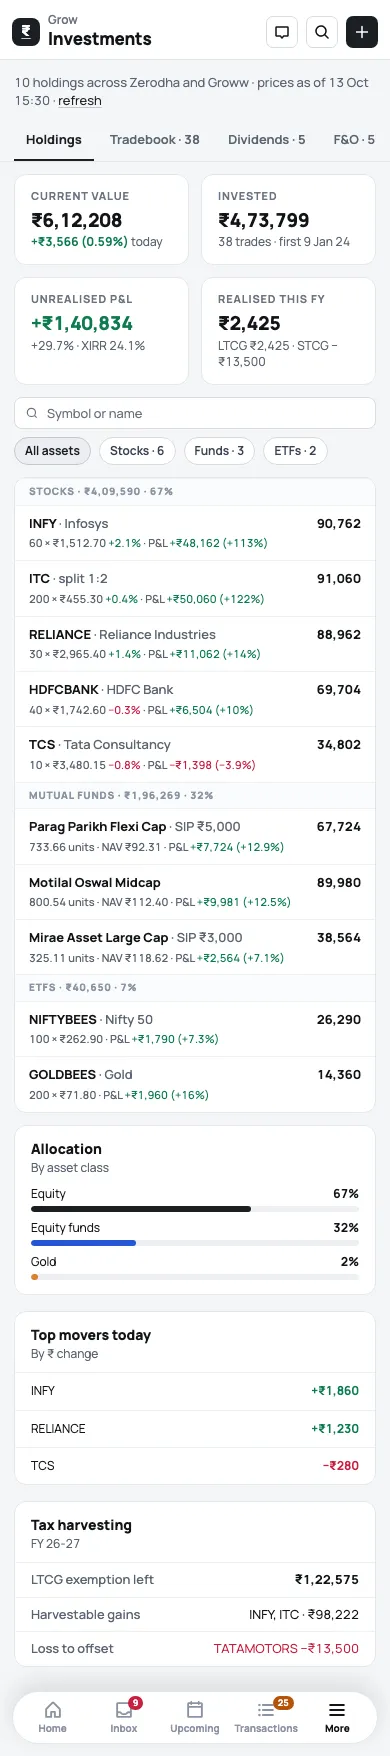
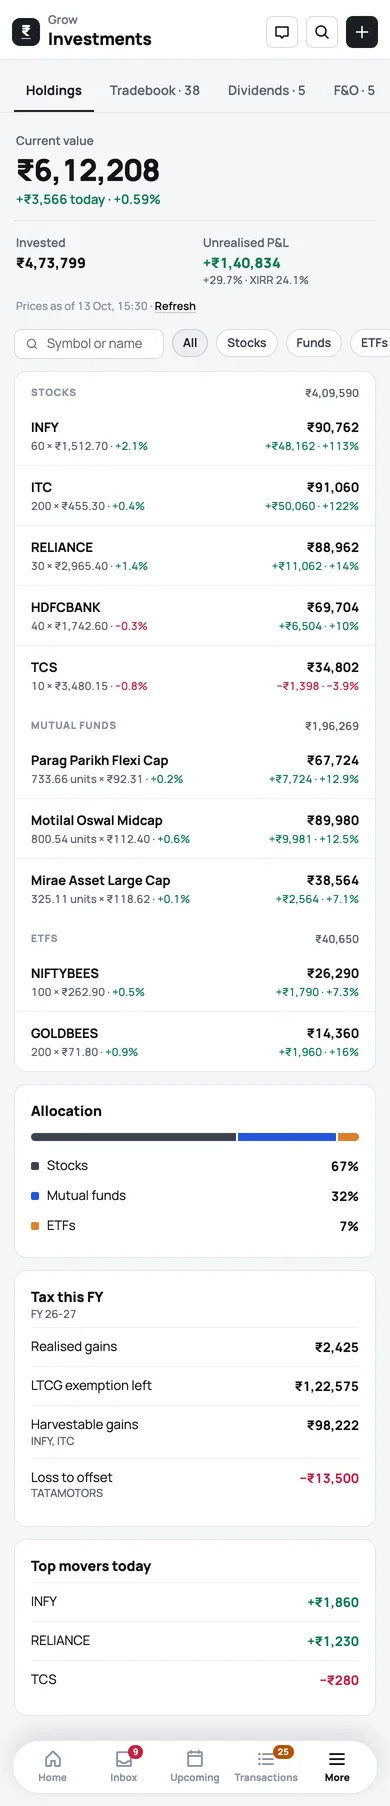
docs(ds): calmer phone Holdings board (owner answers 10-23)
One hero figure, two side stats, search left of the chips, two-line rows
(qty × price · day %, P&L · %), totals-only group heads, Tax this FY card.

diff --git a/design-system/screens/P-investments.dc.html b/design-system/screens/P-investments.dc.html
@@ -222,6 +222,33 @@ svg{flex:none}
 .dim{opacity:.55;pointer-events:none}
 
 
+.hx-hero{padding:8px 2px 0}
+.hx-lab{font-size:12px;line-height:16px;font-weight:600;color:#5B6472}
+.hx-big{font-family:'Bricolage Grotesque',Manrope,sans-serif;font-size:30px;line-height:34px;font-weight:800;letter-spacing:-.02em;margin-top:4px}
+.hx-two{display:grid;grid-template-columns:1fr 1fr;gap:16px;padding:14px 2px 0;border-top:1px solid #E4E7EB}
+.hx-fig{font-size:14px;line-height:20px;font-weight:800;margin-top:2px}
+.hx-cap{font-size:11px;line-height:14px;font-weight:500}
+.hx-asof{color:#8A94A3;padding:0 2px}
+.hx-asof a{color:#121417;font-weight:600}
+.hx-filters{display:flex;gap:8px;overflow-x:auto;scrollbar-width:none;margin:4px -14px 0;padding:0 14px}
+.hx-filters .search{flex:1 0 auto;min-width:150px;height:30px}
+.hx-filters .chip{flex:none}
+.hx-list{background:#fff;border:1px solid #E4E7EB;border-radius:12px;overflow:hidden}
+.hx-sec{display:flex;justify-content:space-between;padding:14px 16px 6px;font-size:10px;line-height:12px;font-weight:800;letter-spacing:.08em;text-transform:uppercase;color:#8A94A3}
+.hx-sec span+span{letter-spacing:0;text-transform:none;font-size:11px;line-height:14px;font-weight:600;color:#5B6472}
+.hx-row{padding:12px 16px;border-top:1px solid #EEF0F3}
+.hx-sec+.hx-row{border-top:0}
+.hx-l{display:flex;justify-content:space-between;gap:12px}
+.hx-l+.hx-l{margin-top:3px}
+.hx-n{font-size:13px;line-height:18px;font-weight:700;white-space:nowrap;overflow:hidden;text-overflow:ellipsis}
+.hx-v{font-size:13px;line-height:18px;font-weight:700;white-space:nowrap}
+.hx-card{background:#fff;border:1px solid #E4E7EB;border-radius:12px;padding:16px}
+.hx-card h3{font-size:14px;line-height:20px;font-weight:800}
+.hx-bar{display:flex;height:8px;border-radius:4px;overflow:hidden;gap:2px;margin:12px 0 10px}
+.hx-leg{display:flex;justify-content:space-between;padding:6px 0}
+.hx-dot{display:inline-block;width:8px;height:8px;border-radius:2px;margin-right:8px}
+.hx-kv{display:flex;justify-content:space-between;padding:10px 0;border-top:1px solid #EEF0F3}
+.hx-kv:first-of-type{border-top:0}
 </style>
 </helmet>
 <div class="shell"><nav class="rail" aria-label="Primary">
@@ -245,41 +272,32 @@ svg{flex:none}
 <div style="margin-top:auto;display:flex;align-items:center;gap:8px;padding:8px 6px 0;border-top:1px solid #EEF0F3"><a class="nav" href="P-settings-profile.dc.html" style="padding:0;color:#6B7280;height:28px"><svg width="15" height="15" viewBox="0 0 256 256" fill="currentColor" aria-hidden="true"><path d="M128,76a52,52,0,1,0,52,52A52.06,52.06,0,0,0,128,76Zm0,80a28,28,0,1,1,28-28A28,28,0,0,1,128,156Zm113.86-49.57A12,12,0,0,0,236,98.34L208.21,82.49l-.11-31.31a12,12,0,0,0-4.25-9.12,116,116,0,0,0-38-21.41,12,12,0,0,0-9.68.89L128,37.27,99.83,21.53a12,12,0,0,0-9.7-.9,116.06,116.06,0,0,0-38,21.47,12,12,0,0,0-4.24,9.1l-.14,31.34L20,98.35a12,12,0,0,0-5.85,8.11,110.7,110.7,0,0,0,0,43.11A12,12,0,0,0,20,157.66l27.82,15.85.11,31.31a12,12,0,0,0,4.25,9.12,116,116,0,0,0,38,21.41,12,12,0,0,0,9.68-.89L128,218.73l28.14,15.74a12,12,0,0,0,9.7.9,116.06,116.06,0,0,0,38-21.47,12,12,0,0,0,4.24-9.1l.14-31.34,27.81-15.81a12,12,0,0,0,5.85-8.11A110.7,110.7,0,0,0,241.86,106.43Zm-22.63,33.18-26.88,15.28a11.94,11.94,0,0,0-4.55,4.59c-.54,1-1.11,1.93-1.7,2.88a12,12,0,0,0-1.83,6.31L184.13,199a91.83,91.83,0,0,1-21.07,11.87l-27.15-15.19a12,12,0,0,0-5.86-1.53h-.29c-1.14,0-2.3,0-3.44,0a12.08,12.08,0,0,0-6.14,1.51L93,210.82A92.27,92.27,0,0,1,71.88,199l-.11-30.24a12,12,0,0,0-1.83-6.32c-.58-.94-1.16-1.91-1.7-2.88A11.92,11.92,0,0,0,63.7,155L36.8,139.63a86.53,86.53,0,0,1,0-23.24l26.88-15.28a12,12,0,0,0,4.55-4.58c.54-1,1.11-1.94,1.7-2.89a12,12,0,0,0,1.83-6.31L71.87,57A91.83,91.83,0,0,1,92.94,45.17l27.15,15.19a11.92,11.92,0,0,0,6.15,1.52c1.14,0,2.3,0,3.44,0a12.08,12.08,0,0,0,6.14-1.51L163,45.18A92.27,92.27,0,0,1,184.12,57l.11,30.24a12,12,0,0,0,1.83,6.32c.58.94,1.16,1.91,1.7,2.88A11.92,11.92,0,0,0,192.3,101l26.9,15.33A86.53,86.53,0,0,1,219.23,139.61Z"/></svg>Settings</a><div class="avr" style="margin-left:auto;width:28px;height:28px" aria-label="Arjun Mehta, account menu">AM</div></div></nav><div class="main"><div class="top">
 <span class="crumb">Grow</span><span class="sep">/</span>
 <span class="ttl">Investments</span><div style="margin-left:auto;display:flex;gap:8px;align-items:center"><a class="btn" href="P-transaction-create.dc.html"><svg width="13" height="13" viewBox="0 0 256 256" fill="currentColor" aria-hidden="true"><path d="M228,128a12,12,0,0,1-12,12H140v76a12,12,0,0,1-24,0V140H40a12,12,0,0,1,0-24h76V40a12,12,0,0,1,24,0v76h76A12,12,0,0,1,228,128Z"/></svg>Add <span class="kbd">⌘N</span></a><a class="btn btn-i" href="P-chat.dc.html" aria-label="Open chat panel"><svg width="14" height="14" viewBox="0 0 256 256" fill="currentColor" aria-hidden="true"><path d="M216,36H40A20,20,0,0,0,20,56V184a20,20,0,0,0,20,20H98.11l12.52,21.92a20,20,0,0,0,34.74,0L157.89,204H216a20,20,0,0,0,20-20V56A20,20,0,0,0,216,36Zm-4,144H150.93a12,12,0,0,0-10.42,6.05L128,207.94l-12.51-21.89A12,12,0,0,0,105.07,180H44V60H212Z"/></svg></a><a class="btn btn-i" href="P-settings-activity.dc.html" aria-label="Notifications"><svg width="14" height="14" viewBox="0 0 256 256" fill="currentColor" aria-hidden="true"><path d="M225.29,165.93C216.61,151,212,129.57,212,104a84,84,0,0,0-168,0c0,25.58-4.59,47-13.27,61.93A20.08,20.08,0,0,0,30.66,186,19.77,19.77,0,0,0,48,196H84.18a44,44,0,0,0,87.64,0H208a19.77,19.77,0,0,0,17.31-10A20.08,20.08,0,0,0,225.29,165.93ZM128,212a20,20,0,0,1-19.6-16h39.2A20,20,0,0,1,128,212ZM54.66,172C63.51,154,68,131.14,68,104a60,60,0,0,1,120,0c0,27.13,4.48,50,13.33,68Z"/></svg></a></div></div><div class="ptop"><a href="P-home.dc.html" aria-label="FinanceOS home" style="display:flex;flex:none"><span style="width:28px;height:28px;border-radius:8px;background:#1B1E24;color:#fff;display:flex;align-items:center;justify-content:center;font-weight:800;font-size:15px;flex:none" aria-hidden="true">₹</span></a><div style="flex:1;min-width:0"><div class="crumb">Grow</div><div style="font-size:17px;font-weight:800;letter-spacing:-.01em;white-space:nowrap;overflow:hidden;text-overflow:ellipsis">Investments</div></div><a class="btn btn-i" href="P-chat.dc.html" aria-label="Ask the data"><svg width="16" height="16" viewBox="0 0 256 256" fill="currentColor" aria-hidden="true"><path d="M216,36H40A20,20,0,0,0,20,56V184a20,20,0,0,0,20,20H98.11l12.52,21.92a20,20,0,0,0,34.74,0L157.89,204H216a20,20,0,0,0,20-20V56A20,20,0,0,0,216,36Zm-4,144H150.93a12,12,0,0,0-10.42,6.05L128,207.94l-12.51-21.89A12,12,0,0,0,105.07,180H44V60H212Z"/></svg></a><a class="btn btn-i" href="P-search.dc.html" aria-label="Search"><svg width="16" height="16" viewBox="0 0 256 256" fill="currentColor" aria-hidden="true"><path d="M232.49,215.51,185,168a92.12,92.12,0,1,0-17,17l47.53,47.54a12,12,0,0,0,17-17ZM44,112a68,68,0,1,1,68,68A68.07,68.07,0,0,1,44,112Z"/></svg></a><a class="btn btn-i btn-p" href="P-transaction-create.dc.html" aria-label="Add"><svg width="16" height="16" viewBox="0 0 256 256" fill="currentColor" aria-hidden="true"><path d="M228,128a12,12,0,0,1-12,12H140v76a12,12,0,0,1-24,0V140H40a12,12,0,0,1,0-24h76V40a12,12,0,0,1,24,0v76h76A12,12,0,0,1,228,128Z"/></svg></a></div><div class="page">
-<div class="hdr">
-  <div><div class="meta">10 holdings across Zerodha and Groww · prices as of 13 Oct 15:30 · <a href="#r">refresh</a></div></div>
-</div>
 <div class="tabs"><span class="tab tab-on">Holdings</span><span class="tab">Tradebook · 38</span><span class="tab">Dividends · 5</span><span class="tab">F&amp;O · 5</span><span class="tab">Corporate actions · 2</span><span class="tab">SIPs · 2</span><span class="tab">Instruments</span></div>
-<div class="kpis">
-  <div class="kpi"><div class="lbl">Current value</div><div class="kv">₹6,12,208</div><div class="cs"><span class="pos" style="font-weight:700">+₹3,566 (0.59%)</span> today</div></div>
-  <div class="kpi"><div class="lbl">Invested</div><div class="kv">₹4,73,799</div><div class="cs">38 trades · first 9 Jan 24</div></div>
-  <div class="kpi"><div class="lbl">Unrealised P&amp;L</div><div class="kv pos">+₹1,40,834</div><div class="cs">+29.7% · XIRR 24.1%</div></div>
-  <div class="kpi"><div class="lbl">Realised this FY</div><div class="kv">₹2,425</div><div class="cs">LTCG ₹2,425 · STCG −₹13,500</div></div>
+<div class="hx-hero"><div class="hx-lab">Current value</div><div class="hx-big">₹6,12,208</div><div class="pos" style="margin-top:4px;font-weight:600">+₹3,566 today · +0.59%</div></div>
+<div class="hx-two"><div><div class="hx-lab">Invested</div><div class="hx-fig">₹4,73,799</div></div><div><div class="hx-lab">Unrealised P&amp;L</div><div class="hx-fig pos">+₹1,40,834</div><div class="hx-cap mut">+29.7% · XIRR 24.1%</div></div></div>
+<div class="hx-asof hx-cap">Prices as of 13 Oct, 15:30 · <a href="#r">Refresh</a></div>
+<div class="hx-filters"><div class="search"><svg width="14" height="14" viewBox="0 0 24 24" fill="none" stroke="currentColor" stroke-width="2" aria-hidden="true"><circle cx="11" cy="11" r="7"/><path d="m20 20-3.5-3.5"/></svg>Symbol or name</div><span class="chip chip-on">All</span><span class="chip">Stocks</span><span class="chip">Funds</span><span class="chip">ETFs</span></div>
+<div class="hx-list">
+  <div class="hx-sec"><span>Stocks</span><span>₹4,09,590</span></div>
+  <div class="hx-row"><div class="hx-l"><span class="hx-n">INFY</span><span class="hx-v">₹90,762</span></div><div class="hx-l hx-cap"><span class="mut">60 × ₹1,512.70 · <span class="pos">+2.1%</span></span><span class="pos">+₹48,162 · +113%</span></div></div>
+  <div class="hx-row"><div class="hx-l"><span class="hx-n">ITC</span><span class="hx-v">₹91,060</span></div><div class="hx-l hx-cap"><span class="mut">200 × ₹455.30 · <span class="pos">+0.4%</span></span><span class="pos">+₹50,060 · +122%</span></div></div>
+  <div class="hx-row"><div class="hx-l"><span class="hx-n">RELIANCE</span><span class="hx-v">₹88,962</span></div><div class="hx-l hx-cap"><span class="mut">30 × ₹2,965.40 · <span class="pos">+1.4%</span></span><span class="pos">+₹11,062 · +14%</span></div></div>
+  <div class="hx-row"><div class="hx-l"><span class="hx-n">HDFCBANK</span><span class="hx-v">₹69,704</span></div><div class="hx-l hx-cap"><span class="mut">40 × ₹1,742.60 · <span class="neg">−0.3%</span></span><span class="pos">+₹6,504 · +10%</span></div></div>
+  <div class="hx-row"><div class="hx-l"><span class="hx-n">TCS</span><span class="hx-v">₹34,802</span></div><div class="hx-l hx-cap"><span class="mut">10 × ₹3,480.15 · <span class="neg">−0.8%</span></span><span class="neg">−₹1,398 · −3.9%</span></div></div>
+  <div class="hx-sec"><span>Mutual funds</span><span>₹1,96,269</span></div>
+  <div class="hx-row"><div class="hx-l"><span class="hx-n">Parag Parikh Flexi Cap</span><span class="hx-v">₹67,724</span></div><div class="hx-l hx-cap"><span class="mut">733.66 units × ₹92.31 · <span class="pos">+0.2%</span></span><span class="pos">+₹7,724 · +12.9%</span></div></div>
+  <div class="hx-row"><div class="hx-l"><span class="hx-n">Motilal Oswal Midcap</span><span class="hx-v">₹89,980</span></div><div class="hx-l hx-cap"><span class="mut">800.54 units × ₹112.40 · <span class="pos">+0.6%</span></span><span class="pos">+₹9,981 · +12.5%</span></div></div>
+  <div class="hx-row"><div class="hx-l"><span class="hx-n">Mirae Asset Large Cap</span><span class="hx-v">₹38,564</span></div><div class="hx-l hx-cap"><span class="mut">325.11 units × ₹118.62 · <span class="pos">+0.1%</span></span><span class="pos">+₹2,564 · +7.1%</span></div></div>
+  <div class="hx-sec"><span>ETFs</span><span>₹40,650</span></div>
+  <div class="hx-row"><div class="hx-l"><span class="hx-n">NIFTYBEES</span><span class="hx-v">₹26,290</span></div><div class="hx-l hx-cap"><span class="mut">100 × ₹262.90 · <span class="pos">+0.5%</span></span><span class="pos">+₹1,790 · +7.3%</span></div></div>
+  <div class="hx-row"><div class="hx-l"><span class="hx-n">GOLDBEES</span><span class="hx-v">₹14,360</span></div><div class="hx-l hx-cap"><span class="mut">200 × ₹71.80 · <span class="pos">+0.9%</span></span><span class="pos">+₹1,960 · +16%</span></div></div>
 </div>
-<div class="srow"><div class="search"><svg width="14" height="14" viewBox="0 0 24 24" fill="none" stroke="currentColor" stroke-width="2" aria-hidden="true"><circle cx="11" cy="11" r="7"/><path d="m20 20-3.5-3.5"/></svg>Symbol or name</div></div><div class="chips"><span class="chip chip-on">All assets</span><span class="chip">Stocks · 6</span><span class="chip">Funds · 3</span><span class="chip">ETFs · 2</span><span class="chip only-d" style="margin-left:auto">Group by asset class ▾</span></div>
-<div class="card tbl" style="--c:minmax(0,1.6fr) 80px 110px 130px 120px 120px 120px 36px">
-  <div class="tr th"><div>Holding</div><div class="num">Qty</div><div class="num">Avg cost</div><div class="num">LTP · day</div><div class="num">Invested</div><div class="num">Current</div><div class="num">P&amp;L</div><div></div></div>
-  <div class="sec">Stocks · ₹4,09,590 · 67%</div>
-  <div class="tr"><div class="c-main">INFY <span class="mut">· Infosys</span></div><div class="c-hide num">60</div><div class="c-hide num mut">710.00</div><div class="c-hide num">1,512.70 <span class="pos" style="font-size:11px">+2.1%</span></div><div class="c-hide num mut">42,600</div><div class="c-num num">90,762</div><div class="c-hide num pos">+48,162 <span style="font-size:11px">+113%</span></div><div class="c-hide">›</div><div class="c-sub">60 × ₹1,512.70 <span class="pos">+2.1%</span> · P&amp;L <span class="pos">+₹48,162 (+113%)</span></div></div>
-  <div class="tr"><div class="c-main">ITC <span class="mut">· split 1:2</span></div><div class="c-hide num">200</div><div class="c-hide num mut">205.00</div><div class="c-hide num">455.30 <span class="pos" style="font-size:11px">+0.4%</span></div><div class="c-hide num mut">41,000</div><div class="c-num num">91,060</div><div class="c-hide num pos">+50,060 <span style="font-size:11px">+122%</span></div><div class="c-hide">›</div><div class="c-sub">200 × ₹455.30 <span class="pos">+0.4%</span> · P&amp;L <span class="pos">+₹50,060 (+122%)</span></div></div>
-  <div class="tr"><div class="c-main">RELIANCE <span class="mut">· Reliance Industries</span></div><div class="c-hide num">30</div><div class="c-hide num mut">2,596.67</div><div class="c-hide num">2,965.40 <span class="pos" style="font-size:11px">+1.4%</span></div><div class="c-hide num mut">77,900</div><div class="c-num num">88,962</div><div class="c-hide num pos">+11,062 <span style="font-size:11px">+14.2%</span></div><div class="c-hide">›</div><div class="c-sub">30 × ₹2,965.40 <span class="pos">+1.4%</span> · P&amp;L <span class="pos">+₹11,062 (+14%)</span></div></div>
-  <div class="tr"><div class="c-main">HDFCBANK <span class="mut">· HDFC Bank</span></div><div class="c-hide num">40</div><div class="c-hide num mut">1,580.00</div><div class="c-hide num">1,742.60 <span class="neg" style="font-size:11px">−0.3%</span></div><div class="c-hide num mut">63,200</div><div class="c-num num">69,704</div><div class="c-hide num pos">+6,504 <span style="font-size:11px">+10.3%</span></div><div class="c-hide">›</div><div class="c-sub">40 × ₹1,742.60 <span class="neg">−0.3%</span> · P&amp;L <span class="pos">+₹6,504 (+10%)</span></div></div>
-  <div class="tr"><div class="c-main">TCS <span class="mut">· Tata Consultancy</span></div><div class="c-hide num">10</div><div class="c-hide num mut">3,620.00</div><div class="c-hide num">3,480.15 <span class="neg" style="font-size:11px">−0.8%</span></div><div class="c-hide num mut">36,200</div><div class="c-num num">34,802</div><div class="c-hide num neg">−1,398 <span style="font-size:11px">−3.9%</span></div><div class="c-hide">›</div><div class="c-sub">10 × ₹3,480.15 <span class="neg">−0.8%</span> · P&amp;L <span class="neg">−₹1,398 (−3.9%)</span></div></div>
-  <div class="sec">Mutual funds · ₹1,96,269 · 32%</div>
-  <div class="tr"><div class="c-main">Parag Parikh Flexi Cap <span class="mut">· SIP ₹5,000</span></div><div class="c-hide num">733.66</div><div class="c-hide num mut">81.78</div><div class="c-hide num">92.31 <span class="pos" style="font-size:11px">+0.2%</span></div><div class="c-hide num mut">59,999</div><div class="c-num num">67,724</div><div class="c-hide num pos">+7,724 <span style="font-size:11px">+12.9%</span></div><div class="c-hide">›</div><div class="c-sub">733.66 units · NAV ₹92.31 · P&amp;L <span class="pos">+₹7,724 (+12.9%)</span></div></div>
-  <div class="tr"><div class="c-main">Motilal Oswal Midcap</div><div class="c-hide num">800.54</div><div class="c-hide num mut">99.93</div><div class="c-hide num">112.40 <span class="pos" style="font-size:11px">+0.6%</span></div><div class="c-hide num mut">80,000</div><div class="c-num num">89,980</div><div class="c-hide num pos">+9,981 <span style="font-size:11px">+12.5%</span></div><div class="c-hide">›</div><div class="c-sub">800.54 units · NAV ₹112.40 · P&amp;L <span class="pos">+₹9,981 (+12.5%)</span></div></div>
-  <div class="tr"><div class="c-main">Mirae Asset Large Cap <span class="mut">· SIP ₹3,000</span></div><div class="c-hide num">325.11</div><div class="c-hide num mut">110.73</div><div class="c-hide num">118.62 <span class="pos" style="font-size:11px">+0.1%</span></div><div class="c-hide num mut">36,000</div><div class="c-num num">38,564</div><div class="c-hide num pos">+2,564 <span style="font-size:11px">+7.1%</span></div><div class="c-hide">›</div><div class="c-sub">325.11 units · NAV ₹118.62 · P&amp;L <span class="pos">+₹2,564 (+7.1%)</span></div></div>
-  <div class="sec">ETFs · ₹40,650 · 7%</div>
-  <div class="tr"><div class="c-main">NIFTYBEES <span class="mut">· Nifty 50</span></div><div class="c-hide num">100</div><div class="c-hide num mut">245.00</div><div class="c-hide num">262.90 <span class="pos" style="font-size:11px">+0.5%</span></div><div class="c-hide num mut">24,500</div><div class="c-num num">26,290</div><div class="c-hide num pos">+1,790 <span style="font-size:11px">+7.3%</span></div><div class="c-hide">›</div><div class="c-sub">100 × ₹262.90 · P&amp;L <span class="pos">+₹1,790 (+7.3%)</span></div></div>
-  <div class="tr"><div class="c-main">GOLDBEES <span class="mut">· Gold</span></div><div class="c-hide num">200</div><div class="c-hide num mut">62.00</div><div class="c-hide num">71.80 <span class="pos" style="font-size:11px">+0.9%</span></div><div class="c-hide num mut">12,400</div><div class="c-num num">14,360</div><div class="c-hide num pos">+1,960 <span style="font-size:11px">+15.8%</span></div><div class="c-hide">›</div><div class="c-sub">200 × ₹71.80 · P&amp;L <span class="pos">+₹1,960 (+16%)</span></div></div>
-</div>
-<div class="cols" style="--cols:1fr 1fr 1fr">
-  <div class="card"><div class="ch"><div><div class="ct">Allocation</div><div class="cs">By asset class</div></div></div><div style="padding:0 16px 14px;display:flex;flex-direction:column;gap:8px;font-size:12px"><div><div style="display:flex;justify-content:space-between"><span>Equity</span><b>67%</b></div><div class="bar" style="margin-top:4px"><div style="width:67%"></div></div></div><div><div style="display:flex;justify-content:space-between"><span>Equity funds</span><b>32%</b></div><div class="bar" style="margin-top:4px"><div style="width:32%;background:#2456D6"></div></div></div><div><div style="display:flex;justify-content:space-between"><span>Gold</span><b>2%</b></div><div class="bar" style="margin-top:4px"><div style="width:2%;background:#D9822B"></div></div></div></div></div>
-  <div class="card"><div class="ch"><div><div class="ct">Top movers today</div><div class="cs">By ₹ change</div></div></div><div class="row" style="font-size:12px"><span class="grow">INFY</span><span class="num pos">+₹1,860</span></div><div class="row" style="font-size:12px"><span class="grow">RELIANCE</span><span class="num pos">+₹1,230</span></div><div class="row" style="font-size:12px"><span class="grow">TCS</span><span class="num neg">−₹280</span></div></div>
-  <div class="card"><div class="ch"><div><div class="ct">Tax harvesting</div><div class="cs">FY 26-27</div></div></div><div class="fld"><span class="mut">LTCG exemption left</span><span style="font-weight:700">₹1,22,575</span></div><div class="fld"><span class="mut">Harvestable gains</span><span>INFY, ITC · ₹98,222</span></div><div class="fld"><span class="mut">Loss to offset</span><span class="neg">TATAMOTORS −₹13,500</span></div></div>
-</div>
+<div class="hx-card"><h3>Allocation</h3><div class="hx-bar"><span style="flex:67;background:#3D4350"></span><span style="flex:32;background:#2456D6"></span><span style="flex:7;background:#D9822B"></span></div><div class="hx-leg"><span><i class="hx-dot" style="background:#3D4350"></i>Stocks</span><span class="hx-v">67%</span></div><div class="hx-leg"><span><i class="hx-dot" style="background:#2456D6"></i>Mutual funds</span><span class="hx-v">32%</span></div><div class="hx-leg"><span><i class="hx-dot" style="background:#D9822B"></i>ETFs</span><span class="hx-v">7%</span></div></div>
+<div class="hx-card"><h3>Tax this FY</h3><div class="hx-cap mut" style="margin-bottom:6px">FY 26-27</div><div class="hx-kv"><span>Realised gains</span><span class="hx-v">₹2,425</span></div><div class="hx-kv"><span>LTCG exemption left</span><span class="hx-v">₹1,22,575</span></div><div class="hx-kv"><div>Harvestable gains<div class="hx-cap mut">INFY, ITC</div></div><span class="hx-v">₹98,222</span></div><div class="hx-kv"><div>Loss to offset<div class="hx-cap mut">TATAMOTORS</div></div><span class="hx-v neg">−₹13,500</span></div></div>
+<div class="hx-card"><h3>Top movers today</h3><div style="height:6px"></div><div class="hx-kv"><span>INFY</span><span class="hx-v pos">+₹1,860</span></div><div class="hx-kv"><span>RELIANCE</span><span class="hx-v pos">+₹1,230</span></div><div class="hx-kv"><span>TCS</span><span class="hx-v neg">−₹280</span></div></div>
 </div><nav class="ptabs" aria-label="Primary"><a class="tabi" href="P-home.dc.html"><svg width="20" height="20" viewBox="0 0 256 256" fill="currentColor" aria-hidden="true"><path d="M222.14,105.85l-80-80a20,20,0,0,0-28.28,0l-80,80A19.86,19.86,0,0,0,28,120v96a12,12,0,0,0,12,12h64a12,12,0,0,0,12-12V164h24v52a12,12,0,0,0,12,12h64a12,12,0,0,0,12-12V120A19.86,19.86,0,0,0,222.14,105.85ZM204,204H164V152a12,12,0,0,0-12-12H104a12,12,0,0,0-12,12v52H52V121.65l76-76,76,76Z"/></svg>Home</a><a class="tabi" href="P-inbox.dc.html"><svg width="20" height="20" viewBox="0 0 256 256" fill="currentColor" aria-hidden="true"><path d="M208,28H48A20,20,0,0,0,28,48V208a20,20,0,0,0,20,20H208a20,20,0,0,0,20-20V48A20,20,0,0,0,208,28Zm-4,24v92H179.31a19.86,19.86,0,0,0-14.14,5.86L147,168H109L90.83,149.86A19.86,19.86,0,0,0,76.69,144H52V52ZM52,204V168H75l18.14,18.14A19.86,19.86,0,0,0,107.31,192h41.38a19.86,19.86,0,0,0,14.14-5.86L181,168h23v36Z"/></svg>Inbox<span style="position:absolute;top:-4px;right:16px;background:#C5203F;color:#fff;border-radius:999px;font-size:9px;padding:1px 5px">9</span></a><a class="tabi" href="P-upcoming.dc.html"><svg width="20" height="20" viewBox="0 0 256 256" fill="currentColor" aria-hidden="true"><path d="M208,28H188V24a12,12,0,0,0-24,0v4H92V24a12,12,0,0,0-24,0v4H48A20,20,0,0,0,28,48V208a20,20,0,0,0,20,20H208a20,20,0,0,0,20-20V48A20,20,0,0,0,208,28ZM68,52a12,12,0,0,0,24,0h72a12,12,0,0,0,24,0h16V76H52V52ZM52,204V100H204V204Z"/></svg>Upcoming</a><a class="tabi" href="P-transactions.dc.html"><svg width="20" height="20" viewBox="0 0 256 256" fill="currentColor" aria-hidden="true"><path d="M76,64A12,12,0,0,1,88,52H216a12,12,0,0,1,0,24H88A12,12,0,0,1,76,64Zm140,52H88a12,12,0,0,0,0,24H216a12,12,0,0,0,0-24Zm0,64H88a12,12,0,0,0,0,24H216a12,12,0,0,0,0-24ZM44,112a16,16,0,1,0,16,16A16,16,0,0,0,44,112Zm0-64A16,16,0,1,0,60,64,16,16,0,0,0,44,48Zm0,128a16,16,0,1,0,16,16A16,16,0,0,0,44,176Z"/></svg>Transactions<span style="position:absolute;top:-4px;right:8px;background:#B45309;color:#fff;border-radius:999px;font-size:9px;padding:1px 5px">25</span></a><a class="tabi tabi-on" href="P-more.dc.html"><svg width="20" height="20" viewBox="0 0 256 256" fill="currentColor" aria-hidden="true"><path d="M228,128a12,12,0,0,1-12,12H40a12,12,0,0,1,0-24H216A12,12,0,0,1,228,128ZM40,76H216a12,12,0,0,0,0-24H40a12,12,0,0,0,0,24ZM216,180H40a12,12,0,0,0,0,24H216a12,12,0,0,0,0-24Z"/></svg>More</a></nav></div></div>
 </x-dc>
-<script type="text/x-dc" data-dc-script data-props='{"$preview":{"width":390,"height":1756}}'>
+<script type="text/x-dc" data-dc-script data-props='{"$preview":{"width":390,"height":1806}}'>
 class Component extends DCLogic {
   renderVals() { return {}; }
 }

diff --git a/design-system/PROGRESS.md b/design-system/PROGRESS.md
@@ -381,6 +381,7 @@ Only the owner adds to this list. Each entry has a date and the decision.
 - 2026-10-23 · **Premium pass 2 designs** (owner): bank logo 14px before the account name on TransactionRow, no logo for no-bank accounts, desktop too (widen the Account column); smarter Set category dropped for now (revisit later); hide amounts placement options fine but neither "₹ ••••" nor blur — new hidden styles to show; app lock card + lock screen approved, server WebAuthn library approved (Yubico java-webauthn-server).
 - 2026-10-23 · **Questions round 10-23** (owner, answers artifact): hide amounts = "₹ —" for amounts, balance line hidden entirely, toggle in top-bar eye AND Settings/More switch; keypad = a second sheet stacked over the form (big amount + keypad), confirm key "Apply", backspace icon OK (registry), live "= ₹X" result line while an operator is typed (no = key); app lock defaults all kept (idle = time away, stays on after re-sign-in, Legacy → Dinero lock, 5 tries, 1 min); remove the bank logo from the Transactions page (looks ugly); morph: fade in the rest + hide the list under the growing card; Categories: phone dialog kept, desktop row click opens the same dialog, uncategorized=1 kept, 53px rows kept; DataTable gets a hide-header option (Import recent + Rules jobs); Import + opens the file picker; "Add statements" kept; DropZone disabled approved; Recent imports pages through 30 days; Rules: add the refresh icon to "Refresh matches", MCC digits kept, Approve gets an Undo toast, jobs card kept, single category filter kept, 3 per row kept, "Select all N" untick behaviour kept, RuleCard selection-mode change approved.
 - 2026-10-22 · **Import, Rules, Categories gaps** (owner, questions artifact): I1 running import = top row of Recent imports with a ProgressBar, form locked until done. Rules: + on the Rules tab opens an empty Add rule form (same as Edit); filters in the URL; opens on Unverified; button "Save", today's behaviour; edit dialog loads the match preview on open and refreshes it (debounced) as the pattern changes; match rows show the account (server change); multi-select categories incl. inline create; keep Merchant key as "Smart contains"; Find matches nothing ticked, "Select all N" across pages (exception); delete only in ⋯ with confirm; jobs-history organism filtered to rule jobs; spelling "Uncategorized" everywhere. Categories: no per-category numbers (no count, spend or rule count, no server endpoint); every category with paging; build Untagged card incl. "Review ›" link to Transactions with a no-category URL filter (server filter); phone: tapping a row opens its actions; rename error as a toast.
+- 2026-10-23 · **Investments Holdings, phone** (owner: "data is just crammed in"): one hero Current value + today; Invested and Unrealised P&L (%, XIRR) beside each other; no count line; search left of the chips like Transactions; rows = name + value / qty × price · day % + P&L · %; group heads show the total only; Realised moves into a "Tax this FY" card; fund rows show units × NAV. Board P-investments redrawn.
 
 ## Open questions
 Add entries here instead of guessing (RULES §2): date, phase, screen or component, the question, the options.
@@ -391,6 +392,7 @@ Newest first: date, phase, tool or agent, what changed (files), checks run, open
 
 Keep entries short (a few lines). Entries before 2026-10-18 are in `PROGRESS-log-archive.md`: grep it, never read it whole.
 
+- 2026-10-23 · Boards · P-investments Holdings tab redrawn calmer per owner (dc.html + shots webp); desktop board unchanged. Deviations: none.
 - 2026-10-23 · Owner review · Approved: Keypad, Conceal (hide amounts), AmountField, icons backspace + eye-slash; pages Settings, Inbox + Upcoming, Transactions (All, Categories, Import, Rules). Negative amount → Debit kept as is. Still Ready for review: /ds shell index, Notifications, Loans & lendings.
 - 2026-10-23 · Phase 3 · Toast flicker on dismiss/clear (owner): the Sonner toaster no longer gets its own frozen view-transition layer (ds.css); a row exit or router.refresh transition hid a toast mid-enter for ~440ms (video frames). Checks: ds-inbox + ds-shell E2E 8 passed. Deviations: none.
 - 2026-10-23 · Phase 3 · App lock (owner): the lock screen opens the fingerprint/Face ID prompt by itself on show and on return after ≥2s away; a refused/dismissed auto prompt stays quiet (Safari needs a tap: Unlock stays). Checks: appLock vitest 42, ds-app-lock E2E 10 passed ×3. Forced test edits: LockScreen.test "does not prompt before a tap" replaced; ds-app-lock.spec steps (virtual authenticator answers the auto prompt). Deviations: none.
